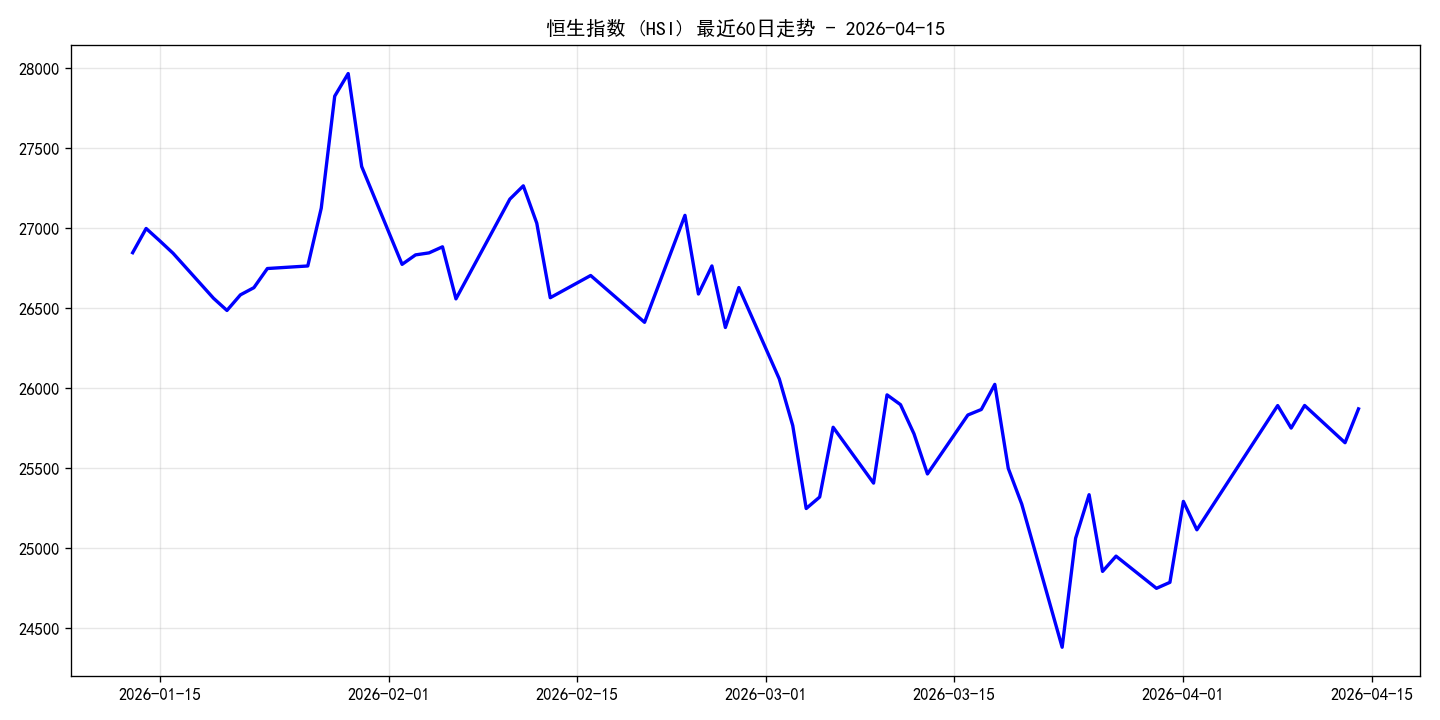
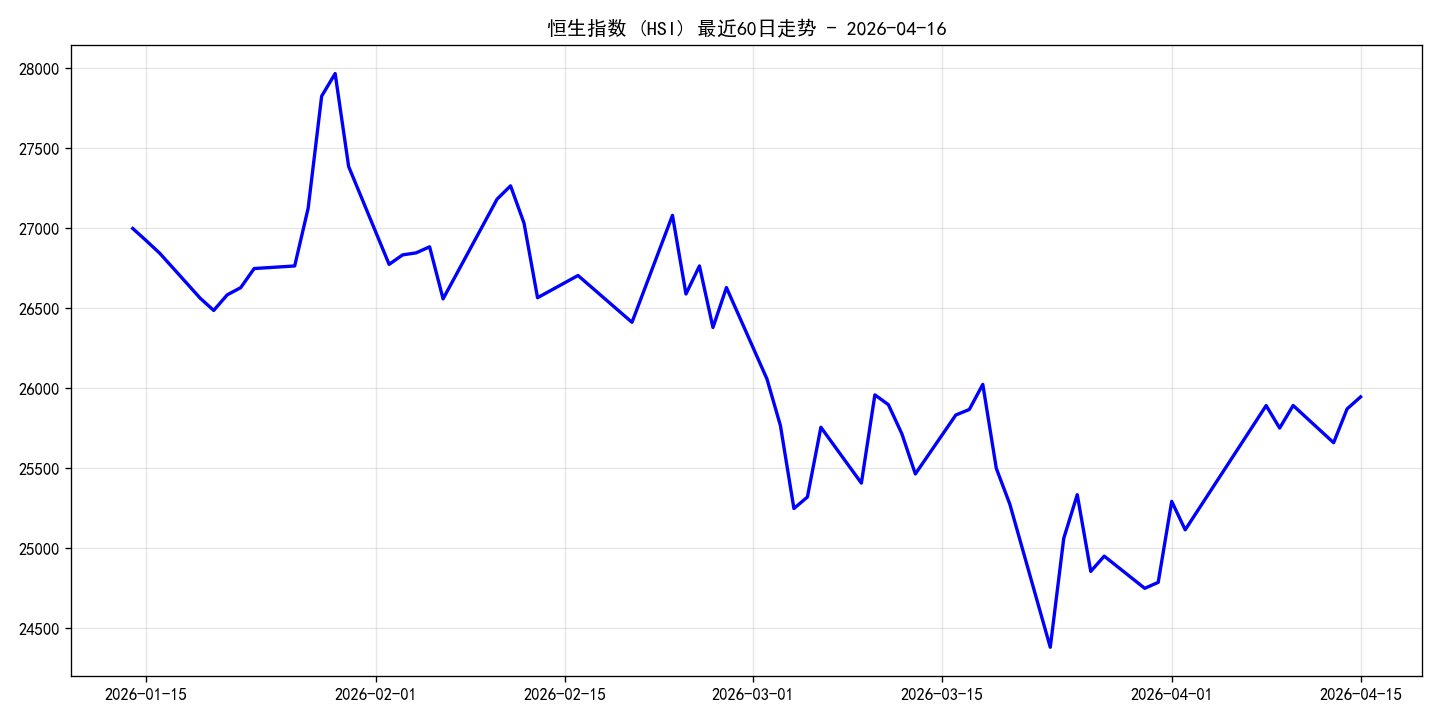
Auto: Daily HK-share Recap Update 2026-04-16

diff --git a/hkshare_recap.html b/hkshare_recap.html
@@ -3,7 +3,7 @@
 <head>
     <meta charset="UTF-8">
     <meta name="viewport" content="width=device-width, initial-scale=1.0">
-    <title>港股收盘复盘 - 2026-04-15</title>
+    <title>港股收盘复盘 - 2026-04-16</title>
     <style>
         body { font-family: sans-serif; padding: 20px; line-height: 1.6; max-width: 800px; margin: 0 auto; background: #f9f9f9; }
         .card { background: white; padding: 20px; border-radius: 12px; shadow: 0 4px 10px rgba(0,0,0,0.1); }
@@ -15,12 +15,12 @@
 </head>
 <body>
     <div class="card">
-        <h1>港股收盘复盘 (2026-04-15)</h1>
+        <h1>港股收盘复盘 (2026-04-16)</h1>
         <div class="stat">
-            恒生指数 (HSI)：25872.32 
-            <span class="up">(+0.82%)</span>
+            恒生指数 (HSI)：25947.32 
+            <span class="up">(+0.29%)</span>
         </div>
-        <p>今日港股市场呈现<strong>上涨</strong>态势。恒指当前点位为 25872.32 点。</p>
+        <p>今日港股市场呈现<strong>上涨</strong>态势。恒指当前点位为 25947.32 点。</p>
         <img src="hkshare_recap_trend.png" alt="Trend">
         <hr>
         <p style="text-align: center; color: #666;">自动生成于收盘后一小时 | 投研助手 Q</p>
